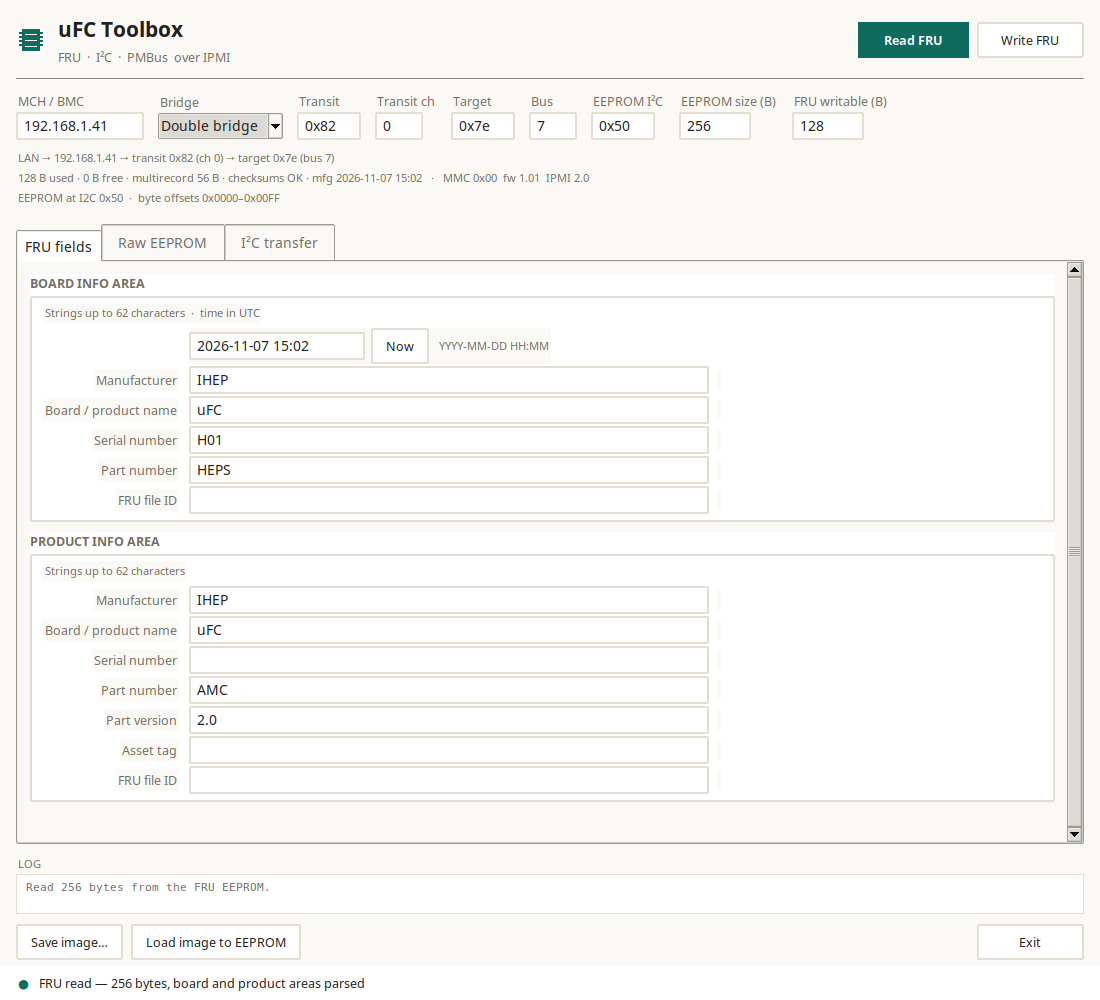
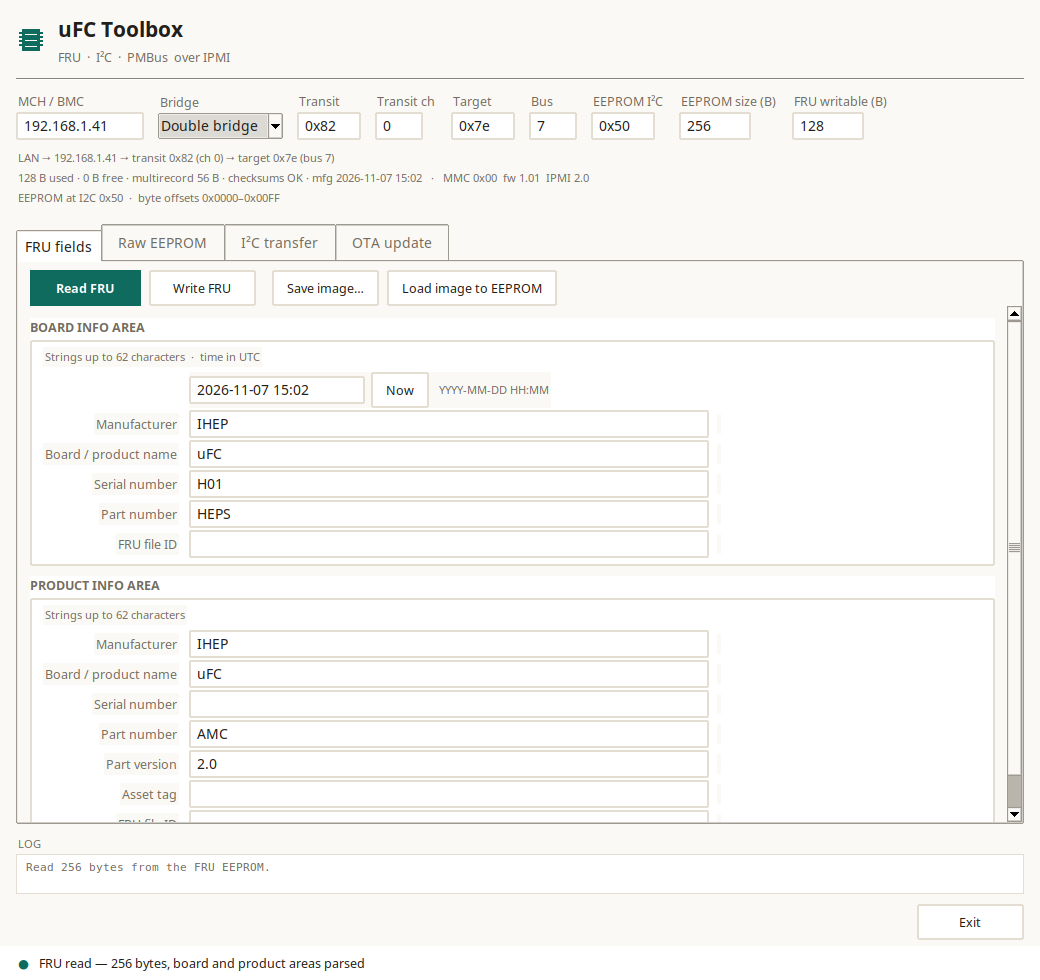
tools/fru_gui: move the FRU actions into the FRU tab
Read FRU / Write FRU / Save image / Load image now sit on a toolbar at
the top of the FRU fields tab; the header is just the title and the
bottom bar keeps only Exit. Window 1040x980 so both areas fit under the
toolbar. README and screenshot updated; binary rebuilt.

diff --git a/tools/fru_gui/fru_gui_tk.py b/tools/fru_gui/fru_gui_tk.py
@@ -82,8 +82,8 @@ class FruEditor(tk.Tk):
     def __init__(self, mch, target, bus, transit, eeprom_size=256, fru_limit=128):
         super().__init__()
         self.title(APP_TITLE)
-        self.geometry("1020x930")
-        self.minsize(940, 700)
+        self.geometry("1040x980")
+        self.minsize(940, 740)
         self.configure(bg=BG)
 
         self.raw = None
@@ -161,13 +161,6 @@ class FruEditor(tk.Tk):
         ttk.Label(title, text="FRU  ·  I\u00b2C  ·  PMBus  over IPMI",
                   style="Sub.TLabel").pack(anchor="w")
 
-        actions = ttk.Frame(header)
-        actions.pack(side="right")
-        ttk.Button(actions, text="Write FRU", style="TButton",
-                   command=self.write_fru).pack(side="right", padx=(8, 0))
-        ttk.Button(actions, text="Read FRU", style="Primary.TButton",
-                   command=self.read_fru).pack(side="right")
-
         ttk.Separator(self).pack(fill="x", padx=16)
 
         # connection / size strip
@@ -236,6 +229,17 @@ class FruEditor(tk.Tk):
         self.fields_tab = ttk.Frame(self.nb)
         self.raw_tab = ttk.Frame(self.nb, padding=12)
         self.nb.add(self.fields_tab, text="FRU fields")
+
+        toolbar = ttk.Frame(self.fields_tab, padding=(12, 8, 12, 0))
+        toolbar.pack(fill="x")
+        ttk.Button(toolbar, text="Read FRU", style="Primary.TButton",
+                   command=self.read_fru).pack(side="left")
+        ttk.Button(toolbar, text="Write FRU",
+                   command=self.write_fru).pack(side="left", padx=(8, 0))
+        ttk.Button(toolbar, text="Save image…",
+                   command=self.save_image).pack(side="left", padx=(16, 0))
+        ttk.Button(toolbar, text="Load image to EEPROM",
+                   command=self.load_image).pack(side="left", padx=(8, 0))
         self.nb.add(self.raw_tab, text="Raw EEPROM")
 
         canvas = tk.Canvas(self.fields_tab, bg=BG, highlightthickness=0)
@@ -299,9 +303,6 @@ class FruEditor(tk.Tk):
 
         bottom = ttk.Frame(self, padding=(16, 6))
         bottom.pack(fill="x")
-        ttk.Button(bottom, text="Save image…", command=self.save_image).pack(side="left")
-        ttk.Button(bottom, text="Load image to EEPROM",
-                   command=self.load_image).pack(side="left", padx=(8, 0))
         ttk.Button(bottom, text="Exit", command=self.destroy).pack(side="right")
 
     def _build_ota_tab(self, parent):

diff --git a/tools/fru_gui/README.md b/tools/fru_gui/README.md
@@ -24,7 +24,8 @@ The firmware must be built with **`-DEEPROM_ACCESS=ON`** (FRU editing) and
   Noto Sans / DejaVu Sans Mono), a chip mark in the header, status dot
 - Connection fields: MCH IP, target IPMB address, bus, transit address
 - One **FRU fields** tab with both the board and product areas, plus a **Raw EEPROM** tab
-- Buttons: **Read FRU**, **Write FRU**, **Save image…**, **Load image to EEPROM**
+- The FRU tab carries its own toolbar: **Read FRU**, **Write FRU**,
+  **Save image…**, **Load image to EEPROM** (the header stays a title bar)
 - **Manufacturing time is shown and edited as a UTC date** (`YYYY-MM-DD HH:MM`);
   the app converts it to/from the FRU 24-bit value (minutes since 1996-01-01).
   A **Now** button fills the current UTC time.
